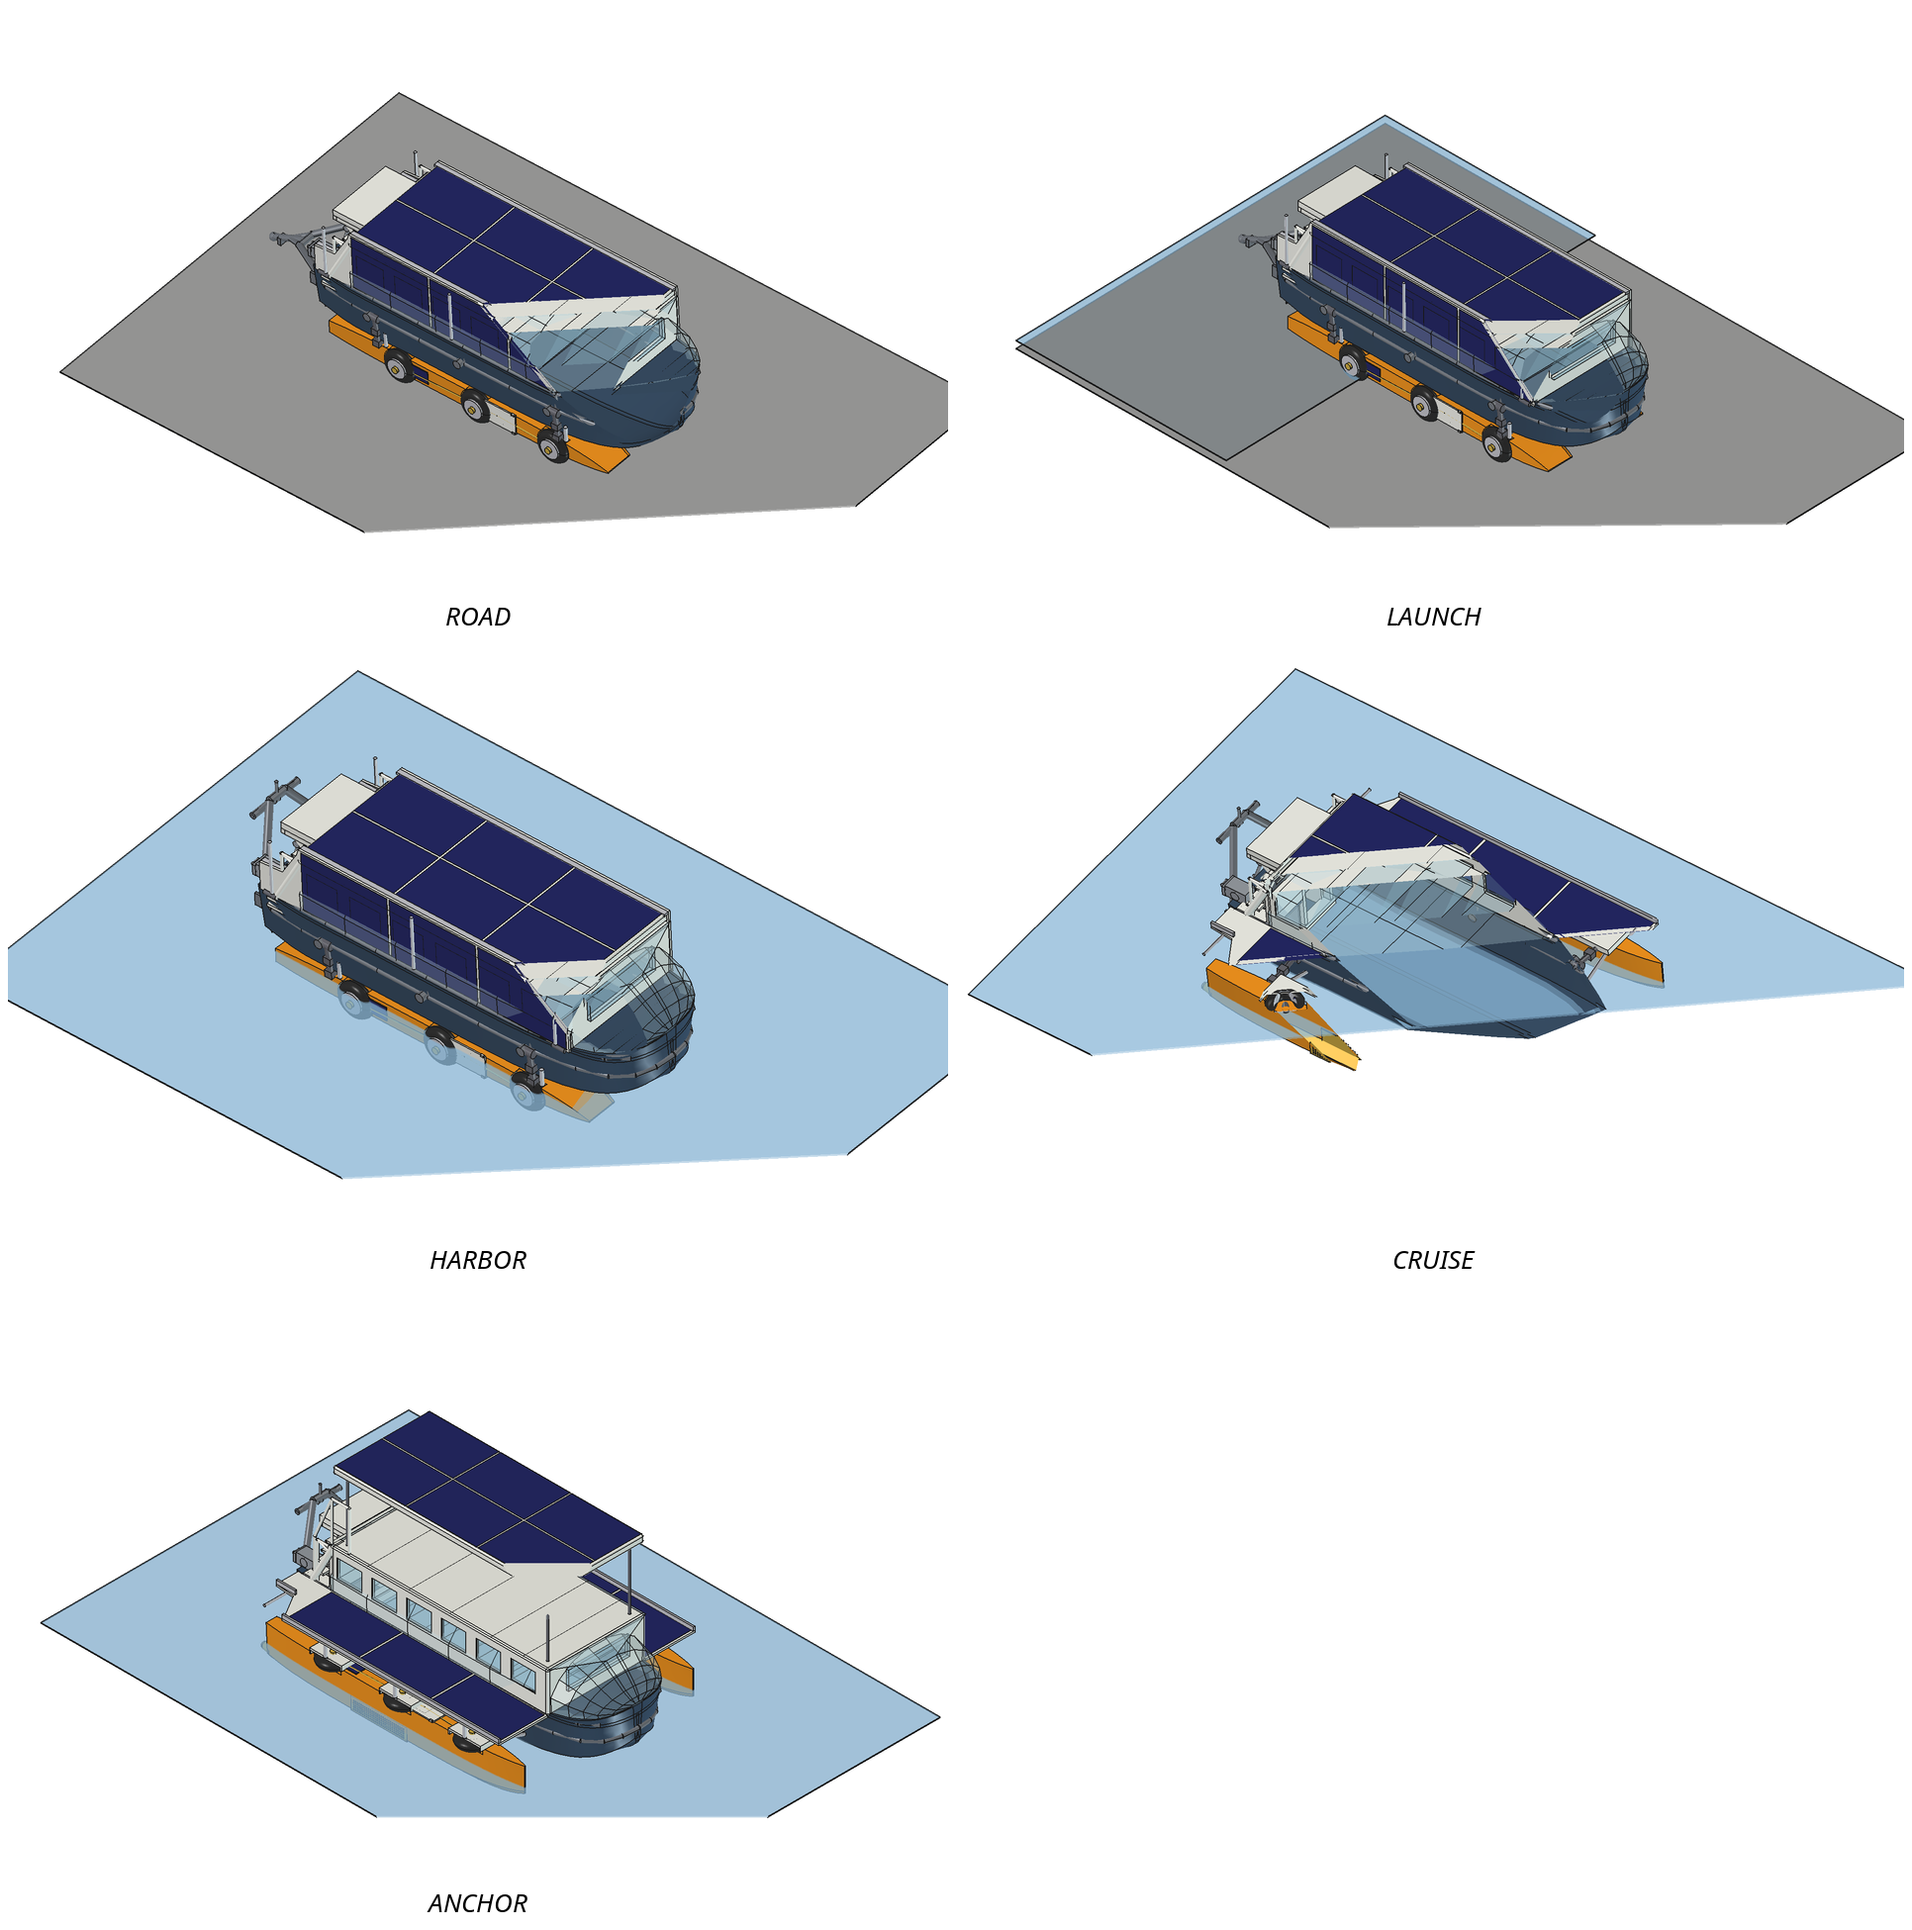
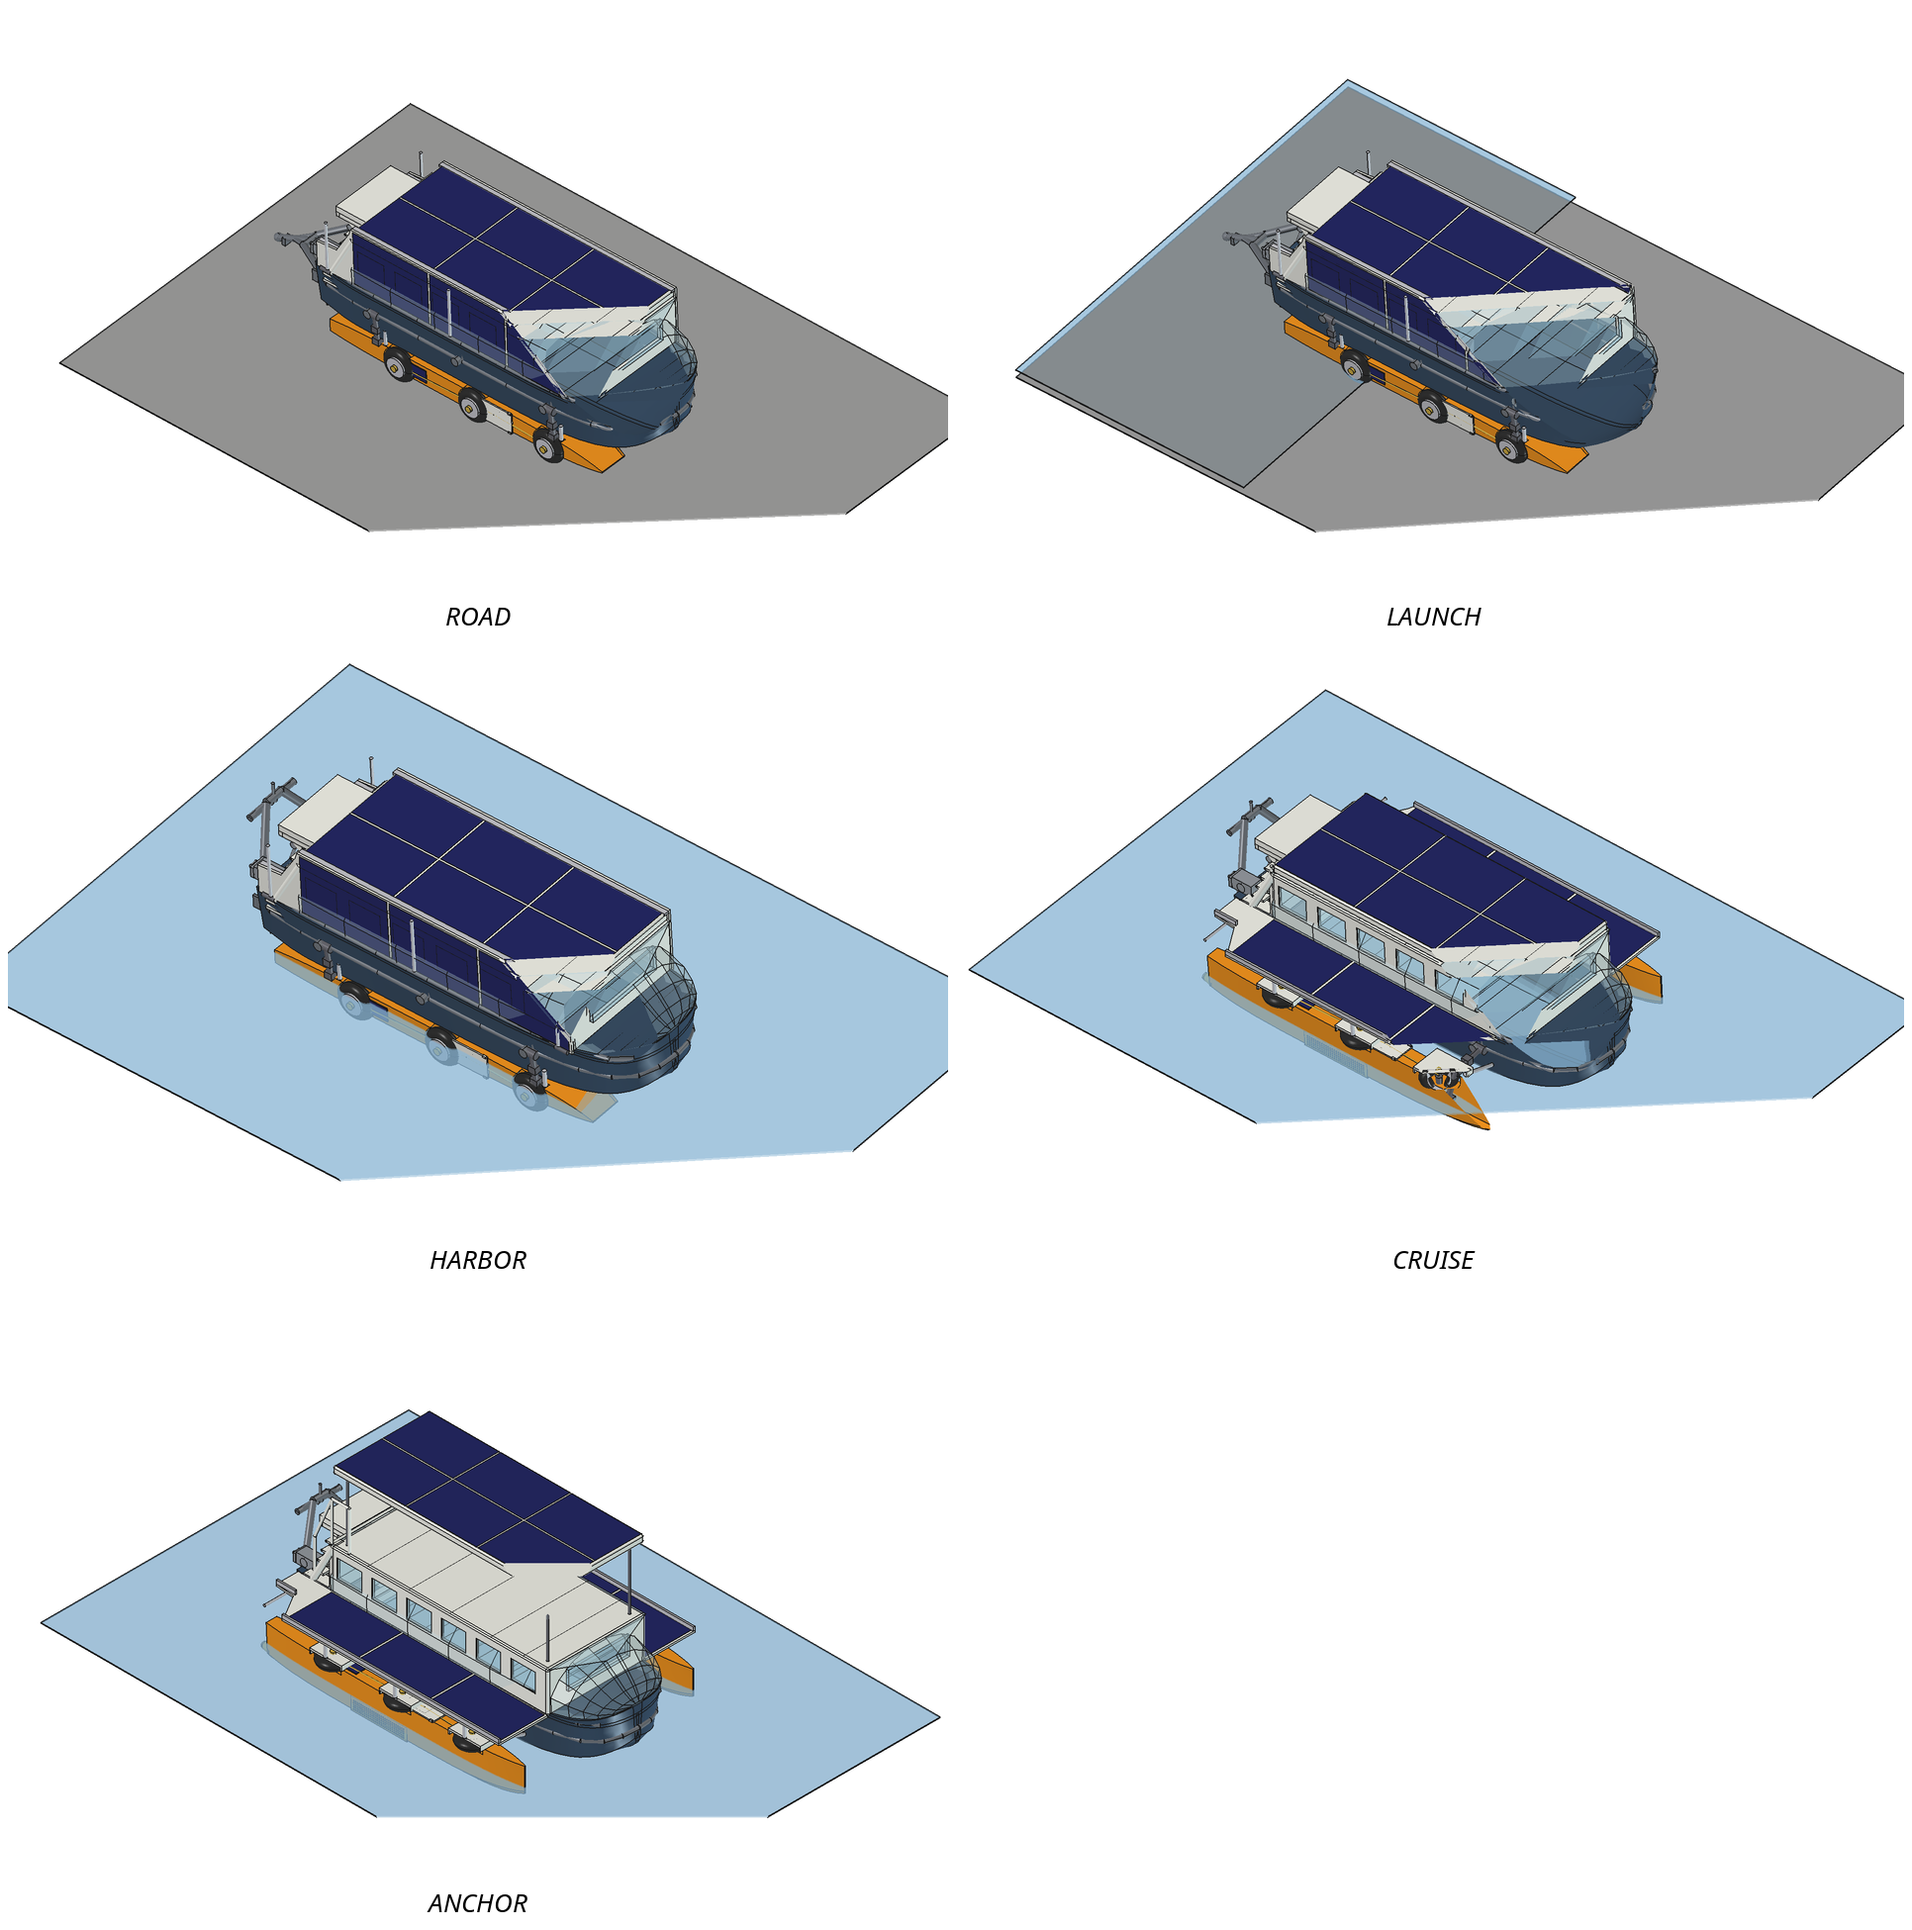
Remove the boarding grab posts
They stood in the middle of the passage, served no purpose the deck
edge rail does not already serve, and were part of what pushed the
road width over the limit. Gate is now just a flush threshold plate
inside the deck edge.

diff --git a/freecad/params.py b/freecad/params.py
@@ -263,14 +263,10 @@ STAIR_STEPS = 8
 GATE_X0, GATE_X1 = 200, 800    # sheer-rail gap right beside the
                                # cockpit: step straight out of the
                                # door onto the balcony walkway
-# transition from the door out to the balcony walkways: a triangular
-# landing in each forward corner at bench height, and a grab post
-# bolted to the balcony frame at the gate
+# transition from the door out to the balcony walkway: a landing at
+# bench height, a half step, and a flush threshold plate at the gate
 LANDING_Z = 850
 GATE_PLATE_Y = 1180           # threshold plate stays inside the hull
-GRAB_POST_X = 520
-GRAB_POST_Y = 1150            # inboard of the deck edge (road width)
-GRAB_POST_H = 900
 # aft wall fit-out, seen from the cockpit: AC upper right, lockers below
 AC_Y0, AC_Y1 = 600, 1140
 AC_Z0, AC_Z1 = 1760, 2100
@@ -375,8 +371,7 @@ def checks(verbose=True):
     float_outer_road = POD_ROAD[0] + FLOAT_H / 2               # sideways
     road_width = 2 * max(HULL_BEAM / 2, wheel_outer, float_outer_road,
                          BALC_HINGE_Y + BALC_T + 2 * PANEL_T + 12,
-                         GATE_PLATE_Y,            # gate threshold plate
-                         GRAB_POST_Y + 35)        # boarding grab post
+                         GATE_PLATE_Y)            # gate threshold plate
     road_height = CABIN_ROOF_Z + CANOPY_THICK - GROUND_Z
     track = 2 * wheel_disc_y
     # water: floats flat, wheels flat on deck

diff --git a/freecad/build_boat.py b/freecad/build_boat.py
@@ -706,18 +706,6 @@ def build_aft_entry(rail_up=False, door_open=False):
         parts.append(box(P.GATE_X1 - P.GATE_X0, 240, 50,
                          (P.GATE_X0, sgn * P.GATE_PLATE_Y
                           - (240 if sgn > 0 else 0), DECK_Z)))
-        # grab post on the balcony frame + tie back into the cabin wall
-        parts.append(rod((P.GRAB_POST_X, sgn * P.GRAB_POST_Y, DECK_Z),
-                         (P.GRAB_POST_X, sgn * P.GRAB_POST_Y,
-                          DECK_Z + P.GRAB_POST_H), 65))
-        parts.append(rod((P.GRAB_POST_X, sgn * P.GRAB_POST_Y,
-                          DECK_Z + P.GRAB_POST_H),
-                         (P.CABIN_X0 - 30, sgn * (P.CABIN_W / 2 - 40),
-                          DECK_Z + P.GRAB_POST_H - 120), 55))
-        parts.append(rod((P.GRAB_POST_X, sgn * P.GRAB_POST_Y,
-                          DECK_Z + P.GRAB_POST_H),
-                         (P.GATE_X1, sgn * P.GRAB_POST_Y,
-                          DECK_Z + P.GRAB_POST_H), 55))
     return (Part.makeCompound(parts), Part.makeCompound(dark),
             Part.makeCompound(glass))
 

diff --git a/docs/aft_entry.md b/docs/aft_entry.md
@@ -114,9 +114,9 @@ pieces:
 2. **Half step** at the outboard edge of the landing, then the
    **boarding gate** (x 950–1450): a gap deliberately left in the sheer
    rail with a threshold plate.
-3. **Grab post bolted to the balcony frame** at the gate, 900 mm tall,
-   tied back into the cabin wall and running forward along the
-   balcony edge — a handhold exactly where you step across.
+3. **Flush threshold plate** at the gate, kept inside the deck edge.
+   No stanchions or grab posts: they stood in the middle of the
+   passage and would have pushed the road width over the limit.
 
 You then walk the 1 200 mm-wide balcony over the float for the whole
 length of the boat. In road trim the balconies fold up over the
